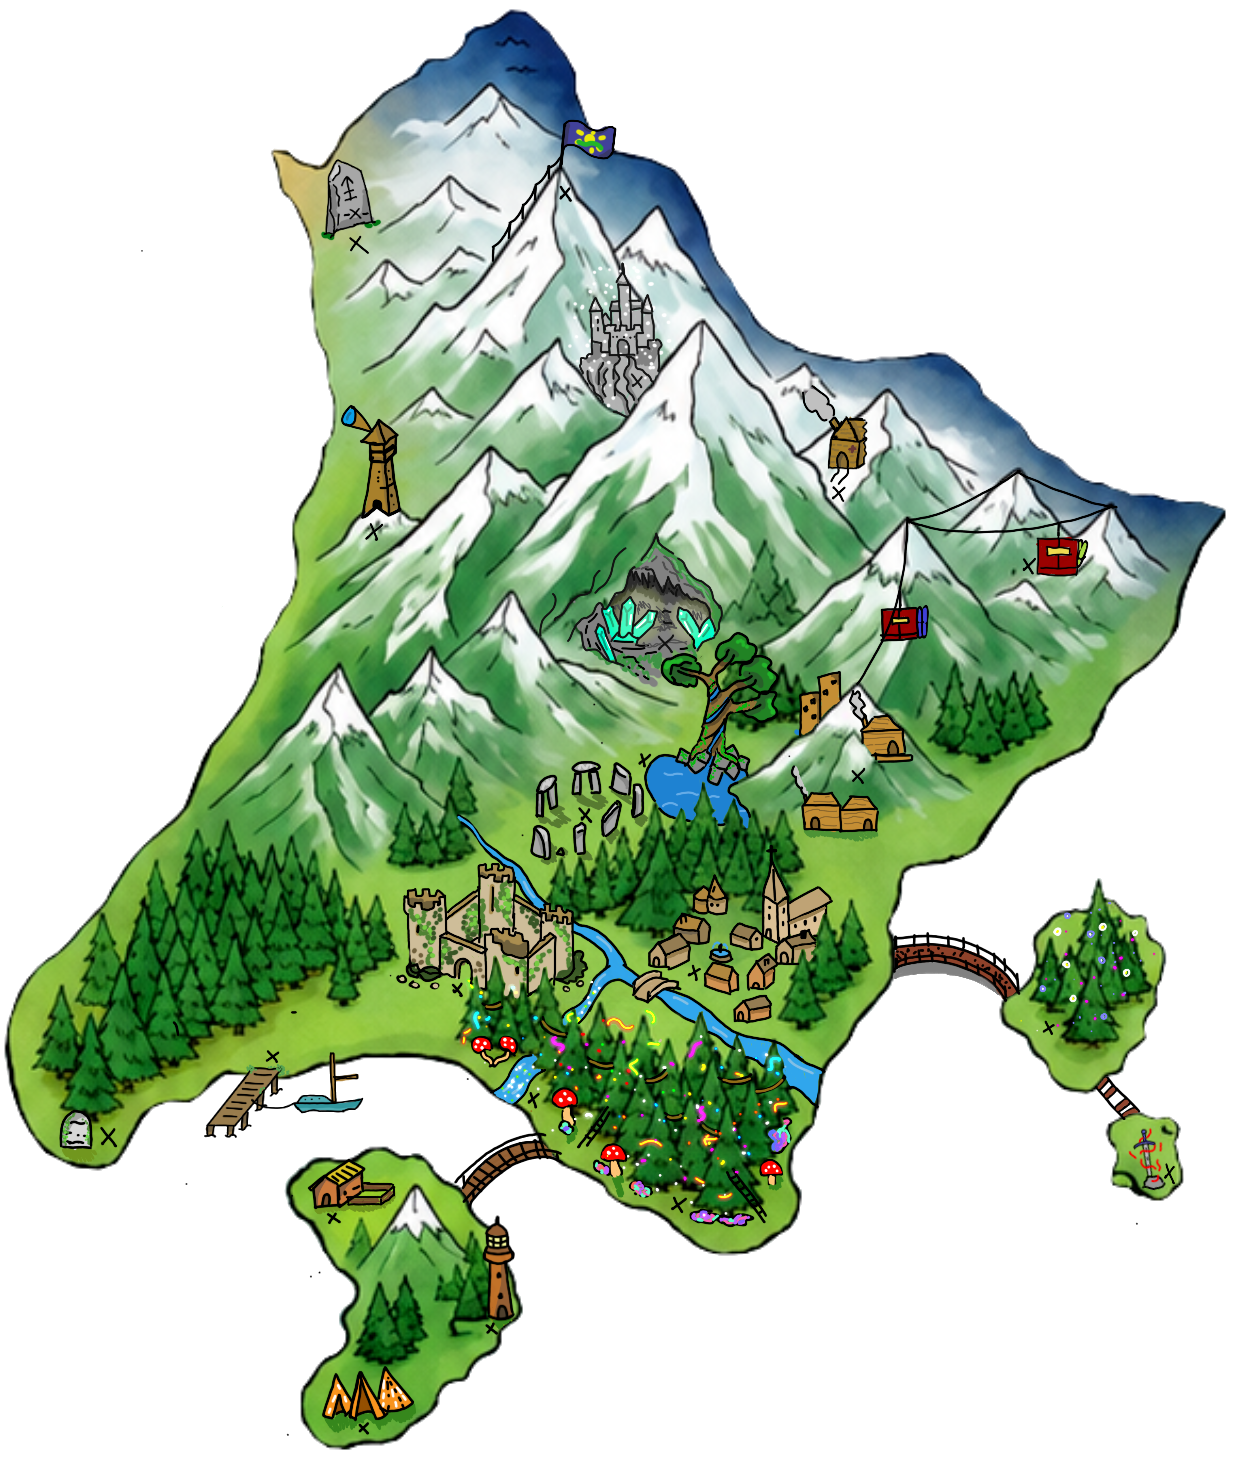
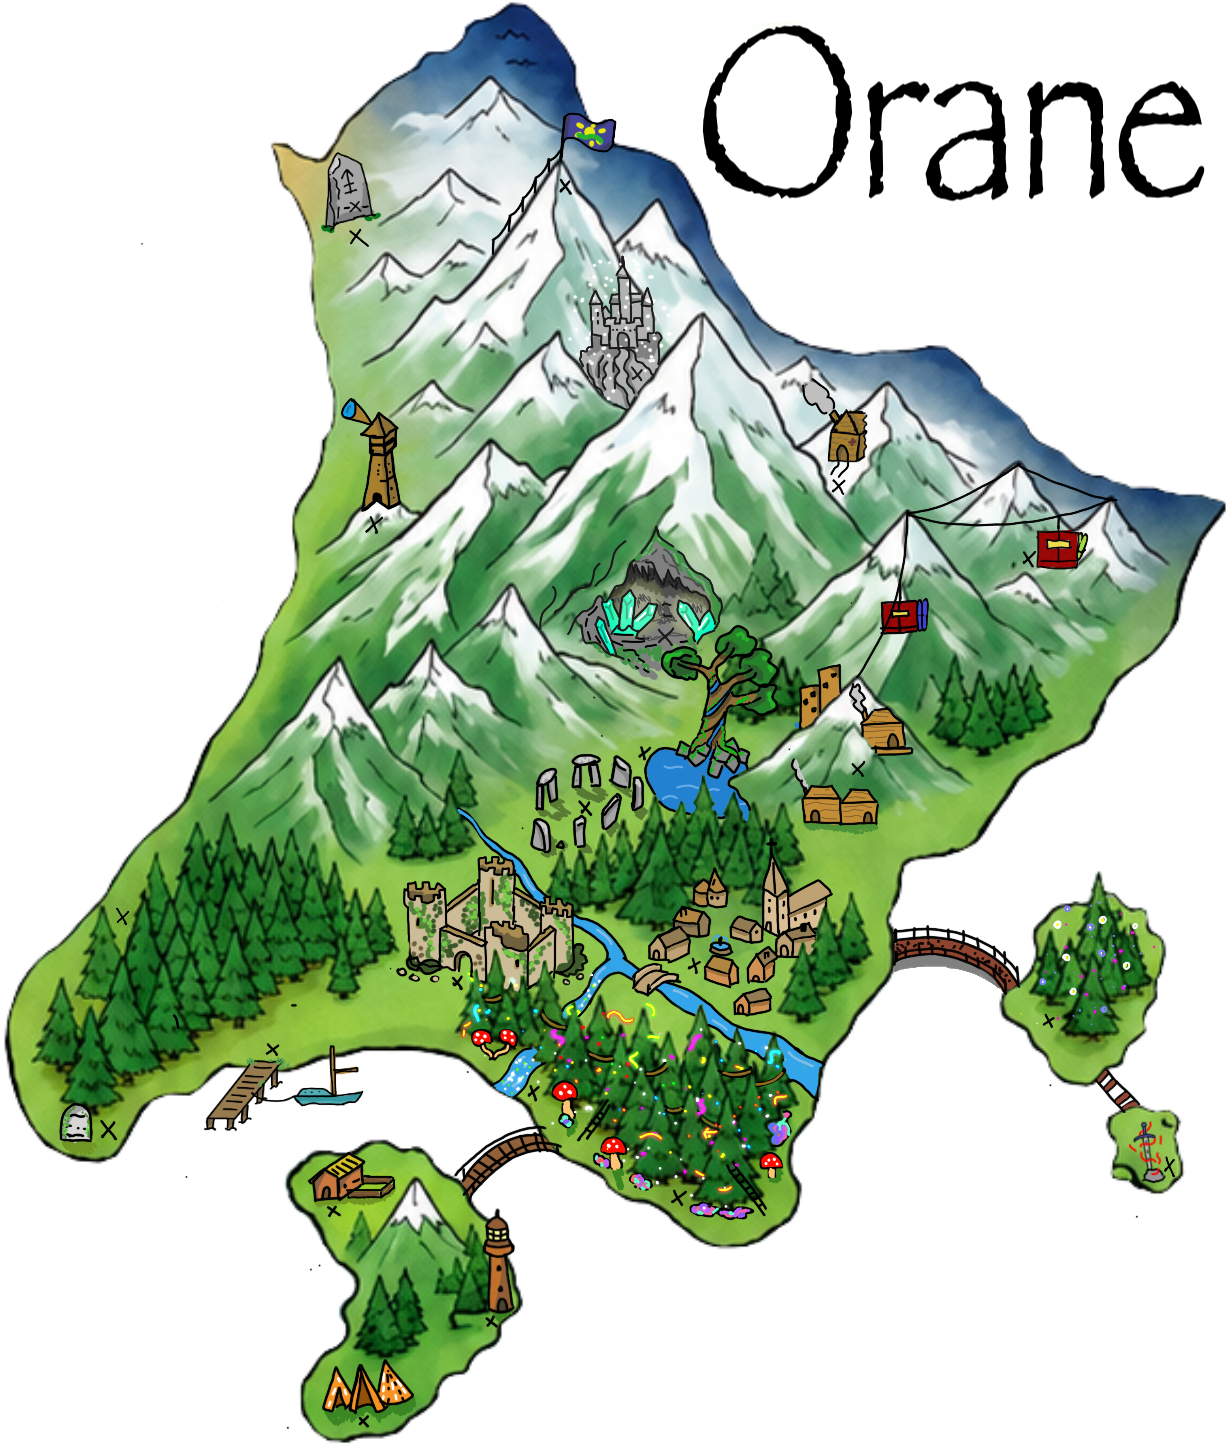
correction focus + fonctionnement de l'affichage du nom sur la map des différente ville sur le désert

diff --git a/lib/screens/map/region_detail_screen.dart b/lib/screens/map/region_detail_screen.dart
@@ -26,15 +26,16 @@ class _RegionDetailScreenState extends State<RegionDetailScreen> {
   Size? _imageSize;
   bool _viewInitialized = false;
 
-  // Niveau de zoom "normal" (image ajustée à l'écran), calculé une fois la taille connue
   double _fitScale = 1.0;
-
   String? _hoveredCrossId;
+  
+  // ✨ NOUVEAU : On retient l'ID de la croix qui est cliquée pour afficher son image
+  String? _selectedCrossId; 
+  
   Set<String> _visitedCities = {};
 
-  // Facteurs de zoom par rapport au niveau "fit"
-  static const double _zoomInFactor = 4.0;   // on peut zoomer jusqu'à 4x le niveau normal
-  static const double _zoomOutFactor = 0.25; // on peut dézoomer jusqu'à 1/4 du niveau normal
+  static const double _zoomInFactor = 4.0;
+  static const double _zoomOutFactor = 1;
 
   @override
   void initState() {
@@ -63,18 +64,12 @@ class _RegionDetailScreenState extends State<RegionDetailScreen> {
 
   String _getRegionDisplayName(String regionName) {
     switch (regionName) {
-      case 'desert':
-        return 'Terres du Désert';
-      case 'montagnes':
-        return 'Pics Enneigés';
-      case 'nuit':
-        return 'Vallée Nocturne';
-      case 'nuages':
-        return 'Cité des Nuages';
-      case 'lac':
-        return 'Rives du Lac';
-      default:
-        return regionName;
+      case 'desert': return 'Sahur';
+      case 'montagnes': return 'Orane';
+      case 'nuit': return 'Vallée Nocturne';
+      case 'nuages': return 'Valoris';
+      case 'lac': return 'Nayris';
+      default: return regionName;
     }
   }
 
@@ -86,18 +81,12 @@ class _RegionDetailScreenState extends State<RegionDetailScreen> {
 
   String _getImageAsset(String regionName) {
     switch (regionName) {
-      case 'desert':
-        return 'assets/desert.png';
-      case 'montagnes':
-        return 'assets/montagnes.png';
-      case 'nuit':
-        return 'assets/nuit.png';
-      case 'nuages':
-        return 'assets/nuages.png';
-      case 'lac':
-        return 'assets/lac.png';
-      default:
-        return 'assets/fond1.png';
+      case 'desert': return 'assets/desert.png';
+      case 'montagnes': return 'assets/montagnes.png';
+      case 'nuit': return 'assets/nuit.png';
+      case 'nuages': return 'assets/nuages.png';
+      case 'lac': return 'assets/lac.png';
+      default: return 'assets/fond1.png';
     }
   }
 
@@ -108,15 +97,11 @@ class _RegionDetailScreenState extends State<RegionDetailScreen> {
     stream.addListener(ImageStreamListener((ImageInfo info, bool synchronousCall) {
       if (!mounted) return;
       setState(() {
-        _imageSize = Size(
-          info.image.width.toDouble(),
-          info.image.height.toDouble(),
-        );
+        _imageSize = Size(info.image.width.toDouble(), info.image.height.toDouble());
       });
     }));
   }
 
-  // Calcule le "fit scale" pour une taille d'écran donnée, et centre la vue.
   void _setupInitialView(Size screenSize) {
     if (_imageSize == null) return;
 
@@ -143,6 +128,7 @@ class _RegionDetailScreenState extends State<RegionDetailScreen> {
   void _resetZoom(Size screenSize) {
     setState(() {
       _setupInitialView(screenSize);
+      _selectedCrossId = null; // On cache l'image si on dézoome
     });
   }
 
@@ -156,10 +142,7 @@ class _RegionDetailScreenState extends State<RegionDetailScreen> {
       body: Stack(
         children: [
           Positioned.fill(
-            child: Image.asset(
-              'assets/fond_de_zoom.png',
-              fit: BoxFit.cover,
-            ),
+            child: Image.asset('assets/fond_de_zoom.png', fit: BoxFit.cover),
           ),
           Positioned.fill(
             child: _imageSize == null
@@ -168,7 +151,6 @@ class _RegionDetailScreenState extends State<RegionDetailScreen> {
                     builder: (context, constraints) {
                       final Size screenSize = Size(constraints.maxWidth, constraints.maxHeight);
 
-                      // On initialise la vue une seule fois, dès que la taille d'écran est connue.
                       if (!_viewInitialized) {
                         _viewInitialized = true;
                         WidgetsBinding.instance.addPostFrameCallback((_) {
@@ -185,12 +167,18 @@ class _RegionDetailScreenState extends State<RegionDetailScreen> {
                       final double minScale = _fitScale * _zoomOutFactor;
                       final double maxScale = _fitScale * _zoomInFactor;
 
+                      final double horizontalMargin = math.max(0.0, (screenSize.width - (imgWidth * minScale)) / (2 * minScale));
+                      final double verticalMargin = math.max(0.0, (screenSize.height - (imgHeight * minScale)) / (2 * minScale));
+
                       return Stack(
                         children: [
                           InteractiveViewer(
                             transformationController: _controller,
                             constrained: false,
-                            boundaryMargin: const EdgeInsets.all(2000),
+                            boundaryMargin: EdgeInsets.symmetric(
+                              horizontal: horizontalMargin,
+                              vertical: verticalMargin,
+                            ),
                             minScale: minScale,
                             maxScale: maxScale,
                             child: SizedBox(
@@ -198,12 +186,43 @@ class _RegionDetailScreenState extends State<RegionDetailScreen> {
                               height: imgHeight,
                               child: Stack(
                                 children: [
+                                  // COUCHE 1 : La carte de fond
                                   Image.asset(
                                     _getImageAsset(widget.regionName),
                                     width: imgWidth,
                                     height: imgHeight,
                                     fit: BoxFit.fill,
                                   ),
+                                  
+                                  // COUCHE 2 : L'image de la ville (Affichée DERRIÈRE les croix)
+                                  if (_selectedCrossId != null)
+                                    ...regionCrosses
+                                        .where((c) => c.id == _selectedCrossId && c.imagePath != null && c.imageX != null && c.imageY != null)
+                                        .map((cross) => Positioned(
+                                              left: cross.imageX,
+                                              top: cross.imageY,
+                                              child: GestureDetector(
+                                                onTap: () {
+                                                  if (widget.selectedDurationMinutes == 0) return;
+                                                  HapticFeedback.lightImpact();
+                                                  Navigator.push(
+                                                    context,
+                                                    MaterialPageRoute(
+                                                      builder: (context) => SelectDestinationScreen(
+                                                        selectedDurationMinutes: widget.selectedDurationMinutes,
+                                                      ),
+                                                    ),
+                                                  );
+                                                },
+                                                child: Image.asset(
+                                                  cross.imagePath!,
+                                                  width: imgWidth,
+                                                  height: imgHeight,
+                                                ),
+                                              ),
+                                            )),
+
+                                  // COUCHE 3 : Toutes les croix (Affichées TOUT DEVANT)
                                   ...regionCrosses.map((cross) {
                                     final bool isHovered = _hoveredCrossId == cross.id;
                                     final bool isVisited = _visitedCities.contains(cross.name);
@@ -216,32 +235,36 @@ class _RegionDetailScreenState extends State<RegionDetailScreen> {
                                         onTapDown: (_) => setState(() => _hoveredCrossId = cross.id),
                                         onTapCancel: () => setState(() => _hoveredCrossId = null),
                                         onTapUp: (_) {
-                                          setState(() => _hoveredCrossId = null);
-                                          if (widget.selectedDurationMinutes == 0) {
-                                            return;
-                                          }
-                                          HapticFeedback.lightImpact();
-                                          Navigator.push(
-                                            context,
-                                            MaterialPageRoute(
-                                              builder: (context) => SelectDestinationScreen(
-                                                selectedDurationMinutes: widget.selectedDurationMinutes,
-                                              ),
-                                            ),
-                                          );
+                                          setState(() {
+                                            _hoveredCrossId = null;
+                                            if (_selectedCrossId == cross.id) {
+                                              _selectedCrossId = null; // Ferme l'image si on reclique
+                                            } else {
+                                              _selectedCrossId = cross.id; // Ouvre l'image
+                                            }
+                                          });
                                         },
                                         child: AnimatedContainer(
                                           duration: const Duration(milliseconds: 150),
                                           width: currentSize,
                                           height: currentSize,
                                           alignment: Alignment.center,
-                                          color: Colors.red.withValues(alpha: 0.5),
+                                          decoration: BoxDecoration(
+                                            shape: BoxShape.circle,
+                                            boxShadow: [
+                                              BoxShadow(
+                                                color: Colors.white.withValues(alpha: 0.8),
+                                                blurRadius: 15.0,
+                                                spreadRadius: 4.0,
+                                              ),
+                                            ],
+                                          ),
                                           child: Transform.rotate(
                                             angle: cross.angle * (math.pi / 180),
                                             child: Icon(
                                               Icons.close,
                                               size: currentSize,
-                                              color: isVisited ? Colors.green : Colors.black,
+                                              color: Colors.transparent,
                                             ),
                                           ),
                                         ),
@@ -273,31 +296,6 @@ class _RegionDetailScreenState extends State<RegionDetailScreen> {
                                         icon: const Icon(Icons.arrow_back_ios_new, color: darkBlue),
                                         onPressed: () => Navigator.pop(context),
                                       ),
-                                    ),
-                                  ),
-                                ),
-                              ),
-                            ),
-                          ),
-
-                          // Titre de la région
-                          SafeArea(
-                            child: Padding(
-                              padding: const EdgeInsets.only(top: 16.0),
-                              child: Align(
-                                alignment: Alignment.topCenter,
-                                child: Container(
-                                  padding: const EdgeInsets.symmetric(horizontal: 20, vertical: 10),
-                                  decoration: BoxDecoration(
-                                    color: darkBlue.withValues(alpha: 0.75),
-                                    borderRadius: BorderRadius.circular(30),
-                                  ),
-                                  child: Text(
-                                    _getRegionDisplayName(widget.regionName),
-                                    style: const TextStyle(
-                                      color: Colors.white,
-                                      fontSize: 20,
-                                      fontWeight: FontWeight.bold,
                                     ),
                                   ),
                                 ),

diff --git a/lib/screens/map/region_cross_data.dart b/lib/screens/map/region_cross_data.dart
@@ -5,6 +5,11 @@ class RegionCross {
   final double y;
   final double angle;
   final double size;
+  
+  // ✨ Les 3 nouvelles petites lignes pour l'image ✨
+  final String? imagePath; 
+  final double? imageX;
+  final double? imageY;
 
   const RegionCross({
     required this.id,
@@ -12,7 +17,10 @@ class RegionCross {
     required this.x,
     required this.y,
     this.angle = 0.0,
-    this.size = 28.0, // ← modifie ici pour changer la taille par défaut de toutes les croix
+    this.size = 28.0,
+    this.imagePath, // Le lien vers l'image (ex: 'assets/ville.png')
+    this.imageX,    // La position X de l'image
+    this.imageY,    // La position Y de l'image
   });
 }
 
@@ -21,8 +29,22 @@ class RegionCrossesData {
     'montagnes': [
     ],
     'desert': [
-      RegionCross(id: 'd1', name: 'Oasis Perdue', x: 300.0, y: 500.0, angle: 0.0, size: 50.0),
-      RegionCross(id: 'd2', name: 'Dunes Brûlantes', x: 600.0, y: 900.0, angle: 30.0, size: 32.0),
+      RegionCross(id: 'd1', name: 'La port de commerce de Solaris', x: 435.0, y: 483.0, angle: 0.0, size: 20.0, imagePath: 'assets/NomCitiesDesert/d1.png', imageX: 0.0, imageY: 0.0),
+      RegionCross(id: 'd2', name: 'La cité Solaris', x: 561.0, y: 431.0, angle: 30.0, size: 20.0, imagePath: 'assets/NomCitiesDesert/d2.png', imageX: 0.0, imageY: 0.0),
+      RegionCross(id: 'd3', name: 'Le coeur du désert', x: 669.0, y: 705.0, angle: 30.0, size: 20.0, imagePath: 'assets/NomCitiesDesert/d3.png', imageX: 0.0, imageY: 0.0),
+      RegionCross(id: 'd4', name: 'La piste des marchands', x: 645.0, y: 820.0, angle: 30.0, size: 20.0, imagePath: 'assets/NomCitiesDesert/d4.png', imageX: 0.0, imageY: 0.0),
+      RegionCross(id: 'd5', name: 'Le bain du désert', x: 399.0, y: 1002.0, angle: 30.0, size: 20.0, imagePath: 'assets/NomCitiesDesert/d5.png', imageX: 0.0, imageY: 0.0),
+      RegionCross(id: 'd6', name: 'L\'autel du soleil', x: 540.0, y: 1001.0, angle: 30.0, size: 20.0, imagePath: 'assets/NomCitiesDesert/d6.png', imageX: 0.0, imageY: 0.0),
+      RegionCross(id: 'd7', name: 'Le cimetières des géants', x: 651.0, y: 1179.0, angle: 30.0, size: 20.0, imagePath: 'assets/NomCitiesDesert/d7.png', imageX: 0.0, imageY: 0.0),
+      RegionCross(id: 'd8', name: 'Le puits des Mirages', x: 664.0, y: 105.0, angle: 30.0, size: 20.0, imagePath: 'assets/NomCitiesDesert/d8.png', imageX: 0.0, imageY: 0.0),
+      RegionCross(id: 'd9', name: 'Le piège des sables', x: 776.0, y: 427.0, angle: 30.0, size: 20.0, imagePath: 'assets/NomCitiesDesert/d9.png', imageX: 0.0, imageY: 0.0),
+      RegionCross(id: 'd10', name: 'La stelle du desert de Sahur', x: 824.0, y: 500.0, angle: 30.0, size: 20.0, imagePath: 'assets/NomCitiesDesert/d10.png', imageX: 0.0, imageY: 0.0),
+      RegionCross(id: 'd11', name: 'Le champs des épines', x: 914.0, y: 713.0, angle: 30.0, size: 20.0, imagePath: 'assets/NomCitiesDesert/d11.png', imageX: 0.0, imageY: 0.0),
+      RegionCross(id: 'd12', name: 'La porte du désert', x: 917.0, y: 779.0, angle: 30.0, size: 20.0, imagePath: 'assets/NomCitiesDesert/d12.png', imageX: 0.0, imageY: 0.0),
+      RegionCross(id: 'd13', name: 'Les monts de Sahur', x: 758.0, y: 927.0, angle: 30.0, size: 20.0, imagePath: 'assets/NomCitiesDesert/d13.png', imageX: 0.0, imageY: 0.0),
+      RegionCross(id:'d14', name:'Le passage secret', x:317.0, y:1540.0, angle:30.0, size:20.0, imagePath:'assets/NomCitiesDesert/d14.png', imageX:0.0, imageY:0.0),
+      RegionCross(id:'d15', name:'La grotte infini', x:383.0, y:1156.0, angle:30.0, size:20.0, imagePath:'assets/NomCitiesDesert/d15.png', imageX:0.0, imageY:0.0),
+      RegionCross(id:'d16', name:'L\'oasis de l\'exil', x:194.0, y:1497.0, angle:30.0, size:20.0, imagePath:'assets/NomCitiesDesert/d16.png', imageX:0.0, imageY:0.0),
     ],
     'lac': [
       RegionCross(id: 'l1', name: 'Rive Calme', x: 400.0, y: 600.0, angle: 10.0, size: 28.0),

diff --git a/lib/screens/map/map_region_data.dart b/lib/screens/map/map_region_data.dart
@@ -18,7 +18,7 @@ class MapRegionsData {
   static final List<RegionShape> regions = [
 RegionShape(
       id: 'desert',
-      name: 'Terres du Désert',
+      name: 'Sahur',
       color: const Color(0xFFE8C468),
       path: () {
         final p = Path();
@@ -152,7 +152,7 @@ RegionShape(
       
    RegionShape(
       id: 'lac',
-      name: 'Monde de l\'Eau',
+      name: 'Nayris',
       color: const Color(0xFF3FA9C9),
       path: Path()
         ..moveTo(392, 685)
@@ -421,7 +421,7 @@ RegionShape(
     ),
     RegionShape(
       id: 'nuages',
-      name: 'Les Nuages Féeriques',
+      name: 'Valoris',
       color: const Color(0xFFE79ACB),
       path: () {
         final p = Path();
@@ -715,7 +715,7 @@ RegionShape(
     ),
     RegionShape(
       id: 'montagnes',
-      name: 'Sommets des Montagnes',
+      name: 'Orane',
       color: const Color(0xFF4F9A5B),
       path: () {
         final p = Path();
